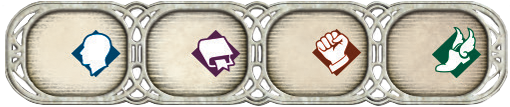
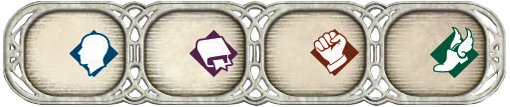
fix: bg positions / help translations / keyboard check translations

diff --git a/slices/pages/skill-check/ui/layout/keyboard/Keyboard/Keyboard.components.tsx b/slices/pages/skill-check/ui/layout/keyboard/Keyboard/Keyboard.components.tsx
@@ -2,7 +2,7 @@ import { BackspaceImage, rule } from "./images/images";
 
 import { skillCheckColor } from "@pages/skill-check/config";
 import { color, font, size } from "@shared/config";
-import { Copasetic } from "@shared/fonts";
+import { Copasetic, Enthalpy298, TeutonicRU } from "@shared/fonts";
 import type { PropsWithBox } from "@shared/model";
 import { Row as BaseRow, TouchableOpacity, UnscaledText } from "@shared/ui";
 import type { FC } from "react";
@@ -19,6 +19,7 @@ import { LayoutContainer, LayoutContainerProps } from "../../LayoutContainer";
 import * as Buttons from "../KeyboardButton";
 import { StatsKeyboard } from "../StatsKeyboard";
 import RuleBottom from "./images/rule.svg";
+import { withLocale } from "@features/i18n";
 
 export const Container: typeof View = styled(View)`
   padding: 0 ${size.gap.default}px;
@@ -94,11 +95,27 @@ export const Placeholder: typeof View = styled(View)`
   flex: 1;
 `;
 
-export const EqualsText: typeof UnscaledText = styled(UnscaledText)`
+export const EqualsText1: typeof UnscaledText = styled(UnscaledText)`
   color: ${color.light10};
   font-family: ${Copasetic.regular};
   font-size: ${font.size.lead}px;
 `;
+
+
+export const EqualsText = withLocale({
+  style: {
+    default: {
+      fontFamily: Copasetic.regular,
+      color: color.light10,
+      fontSize: font.size.lead
+    },
+    ru: {
+      fontFamily: Enthalpy298.regular,
+      marginTop: -1,
+      letterSpacing: 0.5
+    }
+  }
+});
 
 type RuleProps = SvgProps & {
 	historyShown: boolean;

diff --git a/slices/pages/skill-check/ui/layout/keyboard/Keyboard/Keyboard.tsx b/slices/pages/skill-check/ui/layout/keyboard/Keyboard/Keyboard.tsx
@@ -16,11 +16,13 @@ import { type ViewProps, useWindowDimensions } from "react-native";
 import { LayoutContainer } from "../../LayoutContainer";
 import * as C from "./Keyboard.components";
 import { operatorMapping } from "./mapping";
+import { useAppTranslation } from "@features/i18n";
 
 export type KeyboardProps = ViewProps;
 
 export const Keyboard = ({ ...props }: KeyboardProps) => {
 	const dispatch = useAppDispatch();
+	const { t } = useAppTranslation();
 	const historyShown = useAppSelector(selectHistoryShown);
 	const window = useWindowDimensions();
 	const showEquals = window.height > 590;
@@ -119,7 +121,7 @@ export const Keyboard = ({ ...props }: KeyboardProps) => {
 							</C.Row>
 							{showEquals && (
 								<PrimaryButton styleType="transparent" onPress={equals}>
-									<C.EqualsText>Equals</C.EqualsText>
+									<C.EqualsText>{t`Equals`}</C.EqualsText>
 								</PrimaryButton>
 							)}
 						</>

diff --git a/slices/widgets/picker/ui/PickerList/PickerList.tsx b/slices/widgets/picker/ui/PickerList/PickerList.tsx
@@ -11,6 +11,7 @@ import { memo, useCallback, useEffect, useMemo, useRef } from "react";
 import type {
 	FlatList,
 	FlatListProps,
+	GestureResponderEvent,
 	ListRenderItemInfo,
 	NativeScrollEvent,
 	NativeSyntheticEvent,
@@ -112,12 +113,9 @@ export const PickerList = ({
 		});
 	}, [data, onValueChanged, value]);
 
-	const onTouchMove = useCallback(() => {
-		canPress.current = false;
-	}, []);
-
 	const onScroll = useCallback(
 		(e: ListScrollEvent) => {
+			canPress.current = false;
 			if (longPressTimeout.current) {
 				clearTimeout(longPressTimeout.current);
 			}
@@ -207,7 +205,6 @@ export const PickerList = ({
 			initialScrollIndex={defaultIndex}
 			onTouchStart={onTouchStart}
 			onTouchEnd={onTouchEnd}
-			onTouchMove={onTouchMove}
 			onMomentumScrollEnd={onScrollEnd}
 			onScroll={onScroll}
 			snapToOffsets={snapToOffsets}

diff --git a/slices/shared/fonts/ru/index.ts b/slices/shared/fonts/ru/index.ts
@@ -1,10 +1,13 @@
 import { ConkordiaFonts } from "./Conkordia";
+import { Enthalpy298Fonts } from "./Enthalpy298";
 import { TeutonicRUFonts } from "./TeutonicRU";
 
 export * from "./Conkordia";
 export * from "./TeutonicRU";
+export * from "./Enthalpy298"
 
 export default {
 	...ConkordiaFonts,
 	...TeutonicRUFonts,
+	...Enthalpy298Fonts
 };

diff --git a/slices/shared/lib/hooks/api/useInvestigatorImageUrl.ts b/slices/shared/lib/hooks/api/useInvestigatorImageUrl.ts
@@ -16,7 +16,7 @@ type UseInvestigatorImageUrlOptions = {
 export const useInvestigatorImageUrl = ({
 	code,
 	type,
-	version = "v4",
+	version = "media",
 }: UseInvestigatorImageUrlOptions) => {
 	const mediaVersion = useAppSelector(selectMediaVersion);
 

diff --git a/slices/pages/board/ui/shared/text/InvestigatorTraits/InvestigatorTraits.components.ts b/slices/pages/board/ui/shared/text/InvestigatorTraits/InvestigatorTraits.components.ts
@@ -1,5 +1,3 @@
-import { withLocale } from "@features/i18n";
-import { boardText } from "@pages/board/config";
 import { color } from "@shared/config";
 import { ArnoPro } from "@shared/fonts";
 import { SanCn } from "@shared/fonts";

diff --git a/slices/shared/fonts/ru/Enthalpy298/index.ts b/slices/shared/fonts/ru/Enthalpy298/index.ts
@@ -1,0 +1,9 @@
+export const Enthalpy298Regular = require('./Enthalpy298-Regular.otf');
+
+export const Enthalpy298 = {
+  regular: 'Enthalpy298Regular'
+}
+
+export const Enthalpy298Fonts = {
+  Enthalpy298Regular
+}

diff --git a/slices/pages/board/ui/layout/header/InvestigatorTitle/InvestigatorTitle.components.tsx b/slices/pages/board/ui/layout/header/InvestigatorTitle/InvestigatorTitle.components.tsx
@@ -1,4 +1,3 @@
-import { withLocale } from "@features/i18n";
 import { Arkhamic } from "@shared/fonts";
 import { ArnoPro } from "@shared/fonts";
 import { Conkordia } from "@shared/fonts";
